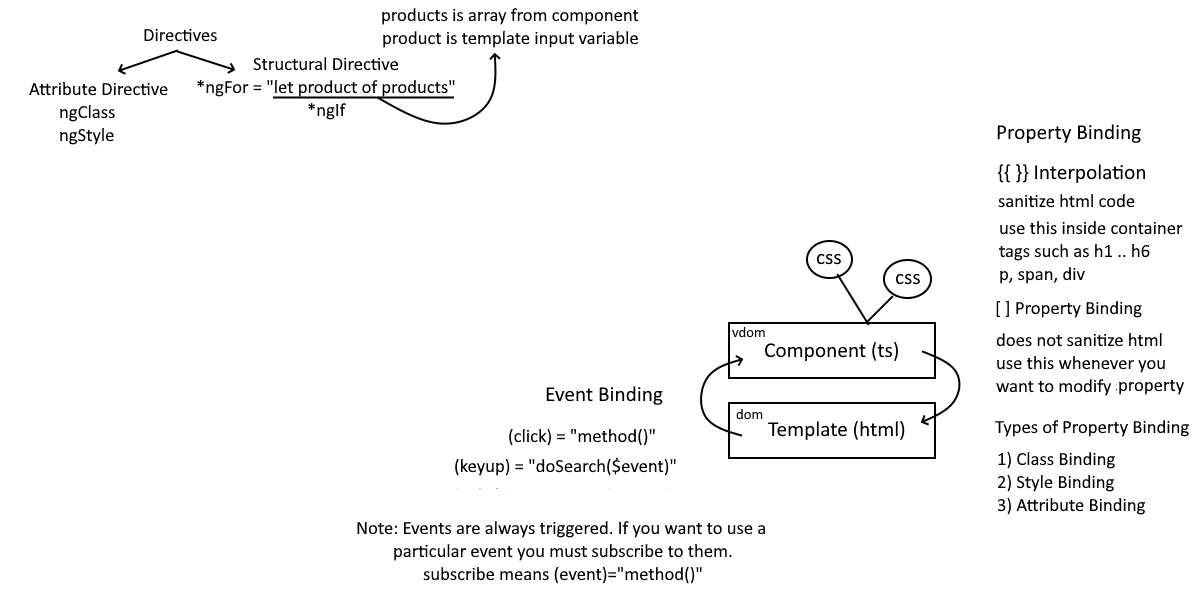
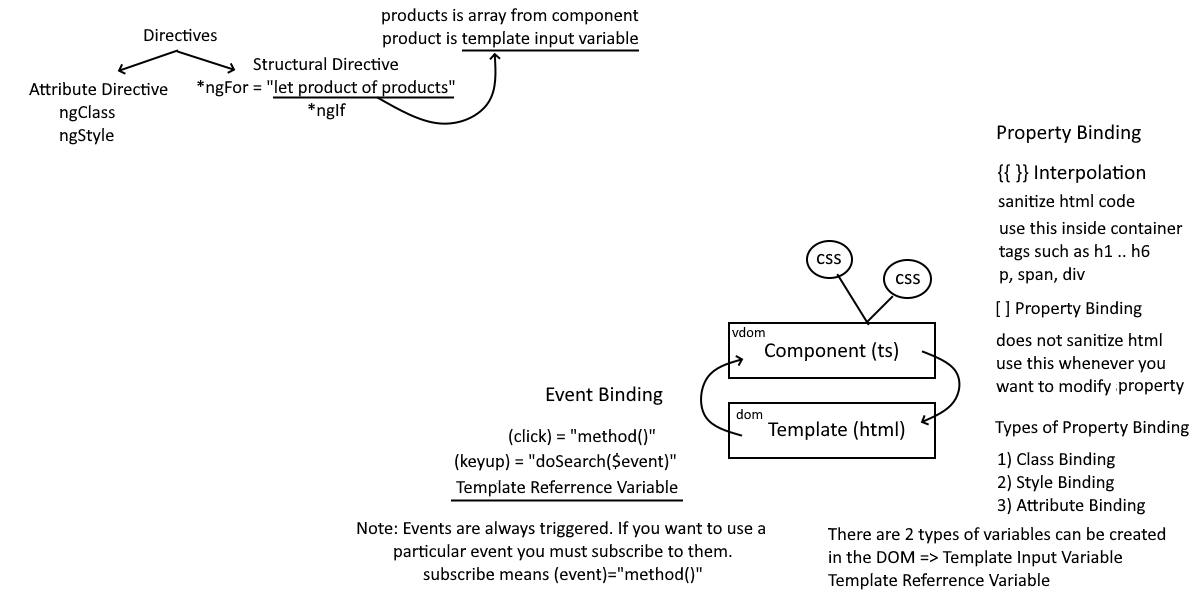
Event Binding using Template Referrence Variable
Event Binding using Template Referrence Variable

Changed region(s): [[0.6783, 0.87, 0.9867, 0.99], [0.37, 0.75, 0.5858, 0.84], [0.4008, 0.06, 0.5242, 0.09]]

diff --git a/Angular/ecommerce/src/app/products/products.component.html b/Angular/ecommerce/src/app/products/products.component.html
@@ -63,8 +63,15 @@
                 <h6 [style.color]="(product.price < 1000) ? 'green' : (product.price < 3000) ? 'blue' : 'red'">
                     Price: {{ product.price }}</h6>
                 <!-- <div *ngIf="product.quantity >= minimumQuantity"> -->
-                <input type="text" size="3" maxlength="3"/>&nbsp;
-                <button class="btn btn-primary" [disabled]="(product.quantity < minimumQuantity)">
+                <!-- 
+                    #requiredQuantity is the template referrence variable
+                    which is pointing to the entire input box
+                    if you want to pull out the value "requiredQuantity.value"
+                -->
+                <input type="text" size="3" maxlength="3" #requiredQuantity/>&nbsp;
+                <button class="btn btn-primary" 
+                    [disabled]="(product.quantity < minimumQuantity)"
+                    (click)="addToCart(product, requiredQuantity)">
                     <span [innerHtml]="(product.quantity < minimumQuantity) ? 'Out of stock' : 'Add to Cart'"></span>
                 </button>
                 <!-- </div> -->
@@ -89,6 +96,7 @@
                     <td>{{ i + 1 }}</td>
                     <td><img [src]="product.photo" class="img-thumbnail" width="150"/></td>
                     <td>
+                        <h4 class="card-title">{{ product.name }}</h4>
                         <p class="card-text" 
                         [ngStyle]="{
                             'color':getDescriptionColor(product.source),
@@ -109,10 +117,62 @@
                             Price: {{ product.price }}</h6>
                     </td>
                     <td>
-                        <input type="text" size="3" maxlength="3"/>&nbsp;
-                        <button class="btn btn-primary" [disabled]="(product.quantity < minimumQuantity)">
+                        <input type="text" size="3" maxlength="3" #requiredQuantity/>&nbsp;
+                        <button class="btn btn-primary" 
+                            [disabled]="(product.quantity < minimumQuantity)"
+                            (click)="addToCart(product, requiredQuantity)">
                             <span [innerHtml]="(product.quantity < minimumQuantity) ? 'Out of stock' : 'Add to Cart'"></span>
                         </button>
+                    </td>
+                </tr>
+            </tbody>
+        </table>
+    </div>
+</div>
+<h3>Shopping Cart</h3>
+<hr/>
+<div class="row">
+    <div class="col-12">
+        <table class="table table-bordered">
+            <thead>
+                <tr>
+                    <th>No.</th>
+                    <th [attr.colspan]="colspanValue">Product</th>
+                    <th>Quantity</th>
+                    <th>Price</th>
+                    <th>Action</th>
+                </tr>
+            </thead>
+            <tbody>
+                <tr *ngFor="let cartItem of shoppingCart; let i = index">
+                    <td>{{ i + 1 }}</td>
+                    <td><img [src]="cartItem.product.photo" class="img-thumbnail" width="150"/></td>
+                    <td>
+                        <h4 class="card-title">{{ product.name }}</h4>
+                        <p class="card-text" 
+                        [ngStyle]="{
+                            'color':getDescriptionColor(cartItem.product.source),
+                            'font-size.px':'18'
+                        }">{{ cartItem.product.description }}</p>
+                        <h6 [ngClass]="{
+                            'text-primary':cartItem.product.source === 'USA',
+                            'text-danger':cartItem.product.source === 'CHINA',
+                            'text-success':cartItem.product.source === 'MALAYSIA'
+                        }">Source: {{ cartItem.product.source }}</h6>
+                    </td>
+                    <td>
+                        <h6 [class.lessQuantity]="(cartItem.product.quantity < minimumQuantity)">
+                            Quantity: {{ cartItem.product.quantity }}</h6>
+                    </td>
+                    <td>
+                        <h6 [style.color]="(cartItem.product.price < 1000) ? 'green' : (cartItem.product.price < 3000) ? 'blue' : 'red'">
+                            Price: {{ cartItem.product.price }}</h6>
+                    </td>
+                    <td>
+                        <input type="text" size="3" maxlength="3" 
+                            [value]="cartItem.requiredQuantity"/>&nbsp;
+                        <button class="btn btn-primary">Update</button>
+                        <button class="btn btn-primary">Delete</button>
                     </td>
                 </tr>
             </tbody>

diff --git a/Angular/ecommerce/src/app/products/products.component.ts b/Angular/ecommerce/src/app/products/products.component.ts
@@ -1,4 +1,5 @@
 import { Component, OnInit } from '@angular/core';
+import { CartItem } from '../models/cart-item';
 import { Product } from '../models/product';
 
 @Component({
@@ -15,6 +16,7 @@ export class ProductsComponent {
   public colspanValue:number;
   public isGallery:boolean;
   public searchResults:Product[];
+  public shoppingCart:CartItem[];
 
   public products:Product[] = [
     { 
@@ -73,6 +75,7 @@ export class ProductsComponent {
     this.colspanValue = 2;
     this.isGallery = true;
     this.searchResults = [];
+    this.shoppingCart = [];
   }
 
   public getDescriptionColor(source:string):string {
@@ -108,6 +111,11 @@ export class ProductsComponent {
     } else {
       this.searchResults = [];
     }
+  }
+
+  public addToCart(product:Product, requiredQuantity:any) {
+    let cartItem:CartItem = new CartItem(0, product, requiredQuantity.value);
+    this.shoppingCart.push(cartItem);
   }
 
 }

diff --git a/Angular/ecommerce/src/app/models/cart-item.ts b/Angular/ecommerce/src/app/models/cart-item.ts
@@ -1,0 +1,13 @@
+import { Product } from "./product";
+
+export class CartItem {
+    public id:number;
+    public product:Product;
+    public requiredQuantity:number;
+
+    constructor(id:number, product:Product, requiredQuantity:number) {
+        this.id = id;
+        this.product = product;
+        this.requiredQuantity =requiredQuantity;
+    }
+}

diff --git a/Angular/ecommerce/src/app/models/cart-item.spec.ts b/Angular/ecommerce/src/app/models/cart-item.spec.ts
@@ -1,0 +1,7 @@
+import { CartItem } from './cart-item';
+
+describe('CartItem', () => {
+  it('should create an instance', () => {
+    expect(new CartItem()).toBeTruthy();
+  });
+});
